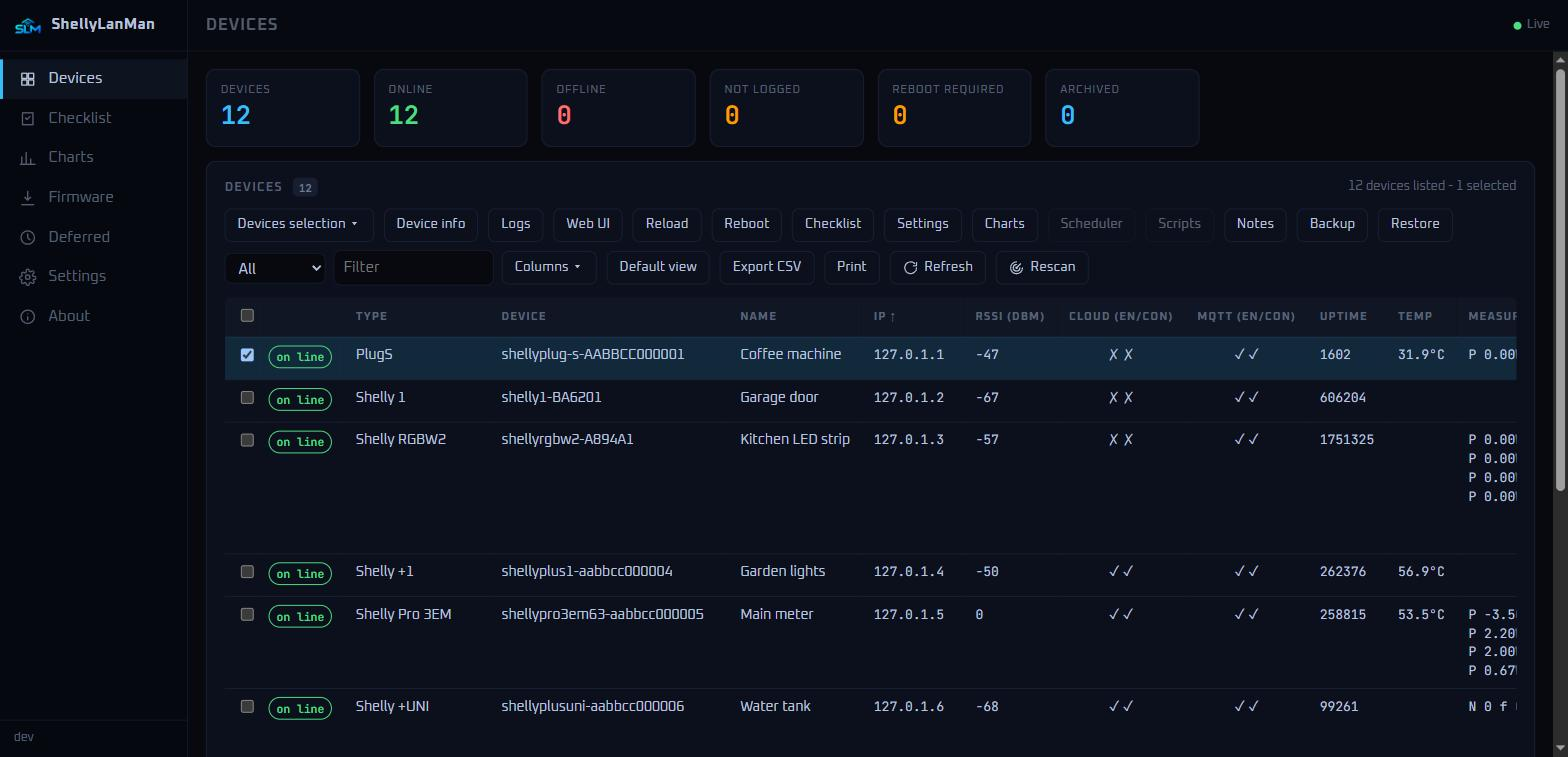
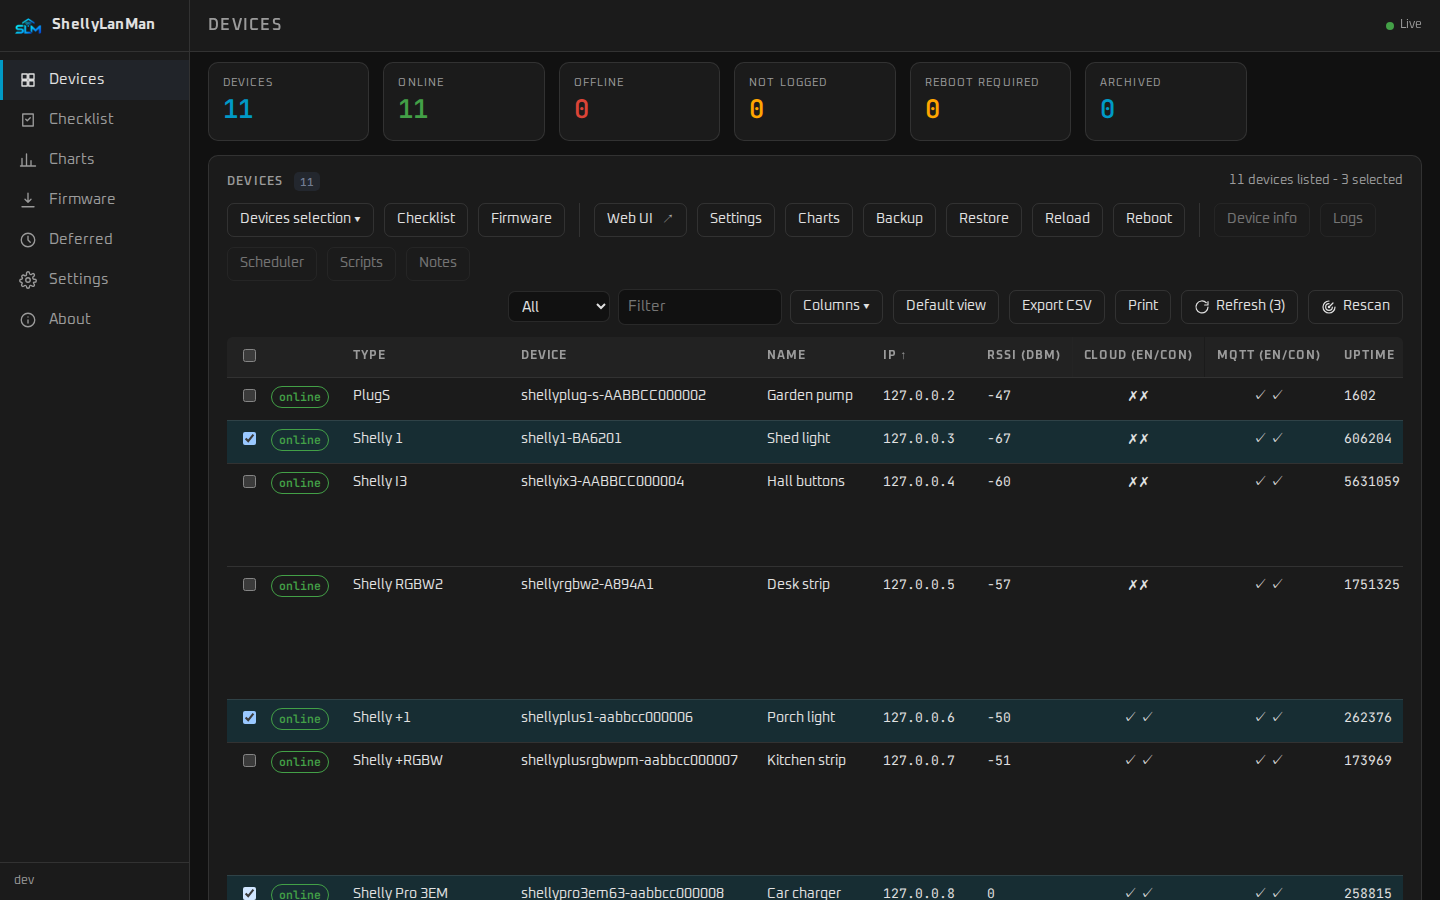
docs: workflow, screenshot tooling, new screenshots and text review after 0.6.0
docs/WORKFLOW.md: checks, remote builds, simulator and screenshots,
translations, releasing both repositories, the Home Assistant test
instance. Host-specific details moved to CLAUDE.local.md (git-ignored).
tools/screenshots: named simulated devices and Playwright screenshots,
dark and light. README: new screenshots, text review after phase 12.

Claude-Session: https://claude.ai/code/session_01GDD3DkdmFUiG3cEB9Y4Umy

diff --git a/tools/screenshots/shoot.py b/tools/screenshots/shoot.py
@@ -1,0 +1,53 @@
+"""README screenshots of a running ShellyLanMan with simulated devices (see run.sh).
+
+Runs in the Playwright Python image; writes PNGs to /shots. The start look is the
+Home Assistant palette, light or dark as the (headless) system prefers, so the
+colour scheme of each context chooses the mode.
+"""
+from playwright.sync_api import sync_playwright
+
+B = "http://127.0.0.1:3082/"
+OUT = "/shots/"
+DESKTOP = {"width": 1440, "height": 900}
+PHONE = {"width": 390, "height": 844}
+# The "no authentication" banner is for real installations, not for pictures.
+QUIET = "try { localStorage.setItem('sl_noauth_dismissed', '1') } catch (e) {}"
+
+
+def context(browser, scheme, viewport, scale=1):
+    ctx = browser.new_context(color_scheme=scheme, viewport=viewport, device_scale_factor=scale)
+    ctx.add_init_script(QUIET)
+    return ctx
+
+
+def tick(page, rows):
+    boxes = page.locator("table.devices tbody td.sel input")
+    for i in rows:
+        boxes.nth(i).check()
+
+
+with sync_playwright() as p:
+    br = p.chromium.launch()
+
+    dark = context(br, "dark", DESKTOP).new_page()
+    dark.goto(B + "#/devices"); dark.wait_for_timeout(3000)
+    tick(dark, (1, 4, 6)); dark.wait_for_timeout(500)
+    dark.screenshot(path=OUT + "screenshot-devices.png")
+    dark.goto(B + "#/about"); dark.wait_for_timeout(2000)
+    dark.screenshot(path=OUT + "screenshot-about.png")
+
+    light = context(br, "light", DESKTOP).new_page()
+    light.goto(B + "#/devices"); light.wait_for_timeout(3000)
+    tick(light, (0, 2, 4, 5, 8)); light.wait_for_timeout(300)
+    light.goto(B + "#/checklist"); light.wait_for_timeout(5000)
+    light.screenshot(path=OUT + "screenshot-checklist.png")
+    light.evaluate("sessionStorage.removeItem('sl_selection')")  # Firmware for all devices
+    light.goto(B + "#/firmware"); light.reload(); light.wait_for_timeout(8000)
+    light.screenshot(path=OUT + "screenshot-firmware.png")
+
+    phone = context(br, "dark", PHONE, 2).new_page()
+    phone.goto(B + "#/checklist"); phone.wait_for_timeout(4000)
+    phone.screenshot(path=OUT + "screenshot-phone.png")
+    phone.click(".menu-btn"); phone.wait_for_timeout(500)
+    phone.screenshot(path=OUT + "screenshot-phone-menu.png")
+    br.close()

diff --git a/docs/WORKFLOW.md b/docs/WORKFLOW.md
@@ -1,0 +1,127 @@
+# Working on ShellyLanMan — standard procedures
+
+How things are done in this project, so they need not be worked out again. The
+machine-specific part (host names, addresses, accounts of the maintainer's own test
+systems) is not in this public repository: Claude Code reads it from
+`CLAUDE.local.md` (git-ignored) in the maintainer's checkout.
+
+## 1. Two repositories
+
+| Repository | Holds | Release |
+|---|---|---|
+| `wimmme/shellylanman` | the application (Go server, TypeScript UI, MCP server) | tag `vX.Y.Z` → image `ghcr.io/wimmme/shellylanman:X.Y.Z`, `X.Y`, `latest` and a GitHub release with the CHANGELOG section |
+| `wimmme/shellylanman-ha` | Home Assistant app (`shellylanman/`) and integration (`custom_components/shellylanman`, HACS) | tag `vX.Y.Z` → image `ghcr.io/wimmme/shellylanman-ha:X.Y.Z`; HACS takes the integration from the repository |
+
+Both carry the same version number. How they depend on each other:
+`shellylanman-ha/COMPATIBILITY.md`.
+
+## 2. Checks
+
+Everything runs in Docker; the development machine needs nothing else.
+
+```sh
+sh tools/verify.sh                  # everything CI runs, plus the production image
+docker build --target test .        # checks only (typecheck, web tests, gofmt, vet, go test -race)
+```
+
+Without Docker on the development machine, run them on a Docker host over SSH:
+
+```sh
+REMOTE=user@dockerhost SSH_OPTS="-i ~/.ssh/key" REMOTE_DIR=build/sll-dev sh tools/remote.sh sh tools/verify.sh
+```
+
+`tools/remote.sh` copies the working tree (without `.git`) to `REMOTE_DIR` on the host
+and runs the command there; nothing comes back by itself (`scp` what you need). Never
+run `docker compose up` in that directory: its compose file uses the production
+container name and would replace a running installation.
+
+Integration tests of `shellylanman-ha` (Home Assistant's test harness, in Docker):
+
+```sh
+sh tools/test.sh               # the oldest supported Home Assistant (pinned)
+sh tools/test.sh 0.13.368      # another pytest-homeassistant-custom-component version
+```
+
+## 3. Simulated devices and screenshots
+
+`cmd/shellysim` plays recorded devices from `testdata/`. For a whole installation with
+named devices and the README screenshots (dark and light):
+
+```sh
+sh tools/screenshots/run.sh    # on a Docker host; PNGs in ./screenshots-out
+```
+
+It builds the tree, starts ShellyLanMan on port 3199 with an IP scan of
+`127.0.0.2–14`, eleven simulators on those loopback addresses (each with its own MAC
+and a name, `tools/screenshots/sims.sh`) and takes the pictures with Playwright
+(`tools/screenshots/shoot.py`). It touches no real device and removes its containers.
+Copy the PNGs to `docs/images/` and check them before committing.
+
+## 4. Translations
+
+Every UI string is in all eight catalogues `web/src/i18n/*.json` (a test checks equal
+keys and placeholders). The files are `json.dumps(…, ensure_ascii=False, indent=2)`
+with a final newline, so a small script that loads, changes and dumps them keeps the
+format; insert new keys next to related ones.
+
+## 5. Releasing
+
+Only on the maintainer's explicit go. Order: ShellyLanMan first (its image is the
+base of the app), then `shellylanman-ha`.
+
+**ShellyLanMan**
+
+1. `CHANGELOG.md`: turn `[Unreleased]` into `## [X.Y.Z] - YYYY-MM-DD` with a short
+   summary paragraph above the sections; leave an empty `[Unreleased]` above it.
+2. `README.md`: the release-line example `ghcr.io/wimmme/shellylanman:X.Y`.
+3. `sh tools/verify.sh` (also checks that the release notes can be extracted).
+4. Commit `release: vX.Y.Z`, tag `vX.Y.Z`, push `main`, then the tag.
+5. Wait for the *Publish image* and *Test* workflows (`gh run watch`); the publish
+   workflow creates the GitHub release from the CHANGELOG section.
+
+**shellylanman-ha**
+
+1. `shellylanman/config.yaml` `version`, `shellylanman/Dockerfile`
+   `SHELLYLANMAN_VERSION`, `custom_components/shellylanman/manifest.json` `version`.
+2. `shellylanman/CHANGELOG.md` (app) and `CHANGELOG.md` (integration): new section.
+3. `sh tools/test.sh` on both Home Assistant versions.
+4. Commit `release: vX.Y.Z …`, tag, push `main` and the tag; wait for the *App* and
+   *Integration* workflows (on `main` and on the tag).
+
+**Afterwards:** install it on the Home Assistant test instance (§6) and record what
+was checked in `docs/hardware-tests.md` (append, never rewrite).
+
+## 6. Home Assistant test instance
+
+A Home Assistant OS VM with the app and the integration; reached over SSH (an
+*Advanced SSH & Web Terminal* app, protection mode on, so no `docker` there) and
+through Home Assistant's WebSocket API with a long-lived token.
+
+- **App update:** Supervisor API through the WebSocket command `supervisor/api`
+  (the REST `/api/hassio` is closed to tokens): `POST /store/reload`, then
+  `POST /store/addons/<slug>/update` with `{"backup": false}`; check
+  `GET /addons/<slug>/info` (`version`, `state`). The app's log:
+  `ha apps logs <slug>` over SSH (with `sudo -n -i`).
+- **Integration update** (when it is not installed through HACS): copy
+  `custom_components/shellylanman` to `/homeassistant/custom_components/` over SSH,
+  then `ha core restart`.
+- **Read-only checks:** WebSocket `config/device_registry/list`,
+  `config_entries/get`, `system_log/list`.
+- Since Home Assistant 2026.8 a device belongs to one config entry: ShellyLanMan's
+  device for a Shelly and the Shelly integration's are two linked devices.
+
+## 7. Real devices
+
+Nothing writes to a real device without asking, except the agreed test devices in
+phases that need writes — and even then say what will be done first (`CLAUDE.md`).
+Fixtures are recorded read-only with `cmd/record` and reviewed (scrubbed) before they
+are committed: this repository is public.
+
+## 8. Documentation habits
+
+- Decisions go to `DECISIONS.md` as a new numbered section; phase analyses to
+  `docs/phase-NN-*.md`; hardware results to `docs/hardware-tests.md`. Append to these;
+  never rewrite earlier sections.
+- Every user-visible change has a `CHANGELOG.md` line in the same commit.
+- Ported code: "Portions derived from ShellyScanner" header and a `docs/PROVENANCE.md`
+  row in the same commit.

diff --git a/README.md b/README.md
@@ -55,12 +55,14 @@ eight languages. No desktop, no VNC, no Java, no cloud.
   Claude Desktop or a local model can read your devices and, if you allow it, switch,
   configure and script them. Locally, with confirmation for anything destructive.
 - **At home in Home Assistant** — [an app](#-home-assistant) in the sidebar behind Home
-  Assistant's login, in Home Assistant's own colours, and an integration that adds
-  ShellyLanMan's status, configuration backups and settings checklist to the Shelly
-  devices Home Assistant already has, plus its tools for Assist.
-- **More than ShellyScanner** — on top of all of ShellyScanner's functions: the MCP
-  server and Home Assistant support above, scenes, eight languages, a choice of colour
-  palettes (including a Home Assistant look), release notes in the app.
+  Assistant's login, in Home Assistant's own colours, and an integration that puts
+  ShellyLanMan's status, configuration backups and settings checklist next to your
+  Shelly devices in Home Assistant, plus its tools for Assist.
+- **More than ShellyScanner** — on top of all of ShellyScanner's functions: pages that
+  work together (one selection for Devices, Checklist and Firmware, buttons that say
+  why they are not available), the MCP server and Home Assistant support above, scenes,
+  eight languages, colour palettes (the Home Assistant look by default), installable as
+  an app, release notes in the app.
 
 ## 🚀 Quick start
 
@@ -119,7 +121,7 @@ volume content.
 
 ### Why host networking
 
-ShellyScanner finds devices with mDNS, which uses multicast on your LAN.
+ShellyLanMan finds devices with mDNS, which uses multicast on your LAN.
 Docker's default bridge network does not pass that multicast into the
 container, so discovery by mDNS only works with `network_mode: host` (Linux).
 In bridge mode (`-p 3082:3082`) everything else works and devices can be found
@@ -160,7 +162,11 @@ own LAN. See [`SECURITY.md`](SECURITY.md).
 
 ## 🧭 Features
 
-Everything ShellyScanner does, in the browser:
+Everything ShellyScanner does, in the browser, and pages that work together:
+
+- **One selection** for Devices, Checklist and Firmware: tick devices on one page and
+  the others show those devices (or all, with one click). Every button says what it
+  does and, when it is grey, why.
 
 - **Discovery** by mDNS (all interfaces or one), IP-range scan or offline, Gen1 to
   Gen4, Pro, BLU devices through their gateways, range-extender clients, protected
@@ -187,12 +193,12 @@ if you switch it on (off by default). No telemetry.
 
 | Page | What it is for |
 |---|---|
-| **Devices** | The live table of every device: status, type, name, IP, RSSI, cloud, MQTT, uptime, temperature, measurements and controls. The toolbar works on the selected devices: info, logs, web UI, reload, reboot, checklist, settings, charts, scheduler, scripts, notes, backup, restore. |
-| **Checklist** | One row per device with the settings worth checking — eco mode, LED, logs, Bluetooth, access point, roaming, Wi-Fi, range extender, scripts, automatic firmware update — and right-click actions to fix them. |
+| **Devices** | The live table of every device: status, type, name, IP, RSSI, cloud, MQTT, uptime, temperature, measurements and controls. Tick devices, then use the toolbar: Checklist and Firmware for the selection; web UI, settings, charts, backup, restore, reload and reboot for one or more devices; info, logs, scheduler, scripts and notes for one device. Refresh reads the devices' status, Rescan searches the network again. |
+| **Checklist** | One row per device with the settings worth checking — eco mode, LED, logs, Bluetooth, access point, roaming, Wi-Fi, range extender, scripts, automatic firmware update. Tick devices and switch a setting with the buttons (or right-click a cell). |
 | **Charts** | Power, energy, voltage, temperature, RSSI and more for the selected devices, with 24 hours of history, zoom, pause and CSV export. |
-| **Firmware** | Current, stable and beta firmware per device, update with live progress, and the QR code for the local download. |
+| **Firmware** | Current, stable and beta firmware of the selected devices (or all), update with live progress, and the QR code for the local download. |
 | **Deferred** | Actions for offline devices, run when the device comes back. |
-| **Settings** | Scan mode and IP ranges, archive, device credentials, backups, web server port, script editor, appearance and language. |
+| **Settings** | Scan mode and IP ranges, archive, device credentials, backups, web server port, script editor, appearance (palette, font, how device pages open) and language. |
 | **About** | What is running (version, runtime, uptime), release notes, dependencies with their licences, credits and help. |
 
 ## 📸 Screenshots
@@ -200,11 +206,19 @@ if you switch it on (off by default). No telemetry.
 | | |
 |---|---|
 | ![Devices](docs/images/screenshot-devices.png) | ![Checklist](docs/images/screenshot-checklist.png) |
-| **Devices** — the live table with controls | **Checklist** — settings worth checking |
+| **Devices** (dark) — the live table; three devices ticked | **Checklist** (light) — the same selection, with *Show all devices* |
 | ![Firmware](docs/images/screenshot-firmware.png) | ![About](docs/images/screenshot-about.png) |
-| **Firmware** — check, update and the Shelly index | **About** — version, system information and support |
+| **Firmware** (light) — check, update and the Shelly index | **About** (dark) — version, system information and support |
 
-The screenshots show simulated devices (`cmd/shellysim`).
+On a phone the pages get the full width; the navigation is behind ☰:
+
+<p>
+  <img src="docs/images/screenshot-phone.png" alt="Checklist on a phone" width="240">
+  <img src="docs/images/screenshot-phone-menu.png" alt="The menu on a phone" width="240">
+</p>
+
+The screenshots show simulated devices in the Home Assistant palette, which is the
+start look; `sh tools/screenshots/run.sh` makes them again.
 
 ## 🤖 AI assistants (MCP)
 

diff --git a/docs/hardware-tests.md b/docs/hardware-tests.md
@@ -244,3 +244,12 @@ fresh instance returns the new token in the API answer; on the test instance it 
 rotated afterwards.
 | Release 0.5.0 on `ha-test` | the store offered the app update 0.4.0 → 0.5.0; after it ShellyLanMan v0.5.0 with the local MCP listener; integration (released code) installed; after a Core restart `shellylanman` (one click) and `mcp` (URL, HA 2026.9) are offered as discovered |
 | `shellylanman-ha` CI | tests on HA 2026.9.4 and the newest release, `hassfest` (after sorting the manifest keys) and HACS validation (after adding repository topics) green |
+
+## Phase 12 and release 0.6.0 (2026-10-03)
+
+| Check | Result |
+|---|---|
+| Pages with 11 simulated devices (`tools/screenshots/run.sh`, headless Chromium) | shared selection Devices → Checklist → Firmware with *Show all devices*; tooltips of grey buttons give the reason (read from the page); Firmware rows filled per device; ☰ menu on a 390 px phone (made opaque after the first look) |
+| `ha-test` device registry (read only, before the release) | ShellyTestPlug also listed as `addr:192.168.0.150:80` (unidentified, error) → fixed in `acd978a`; BrandstofcelSwitch twice (ShellyLanMan and Shelly integration, same MAC, not merged): Home Assistant 2026.8+ keeps one config entry per device |
+| Release 0.6.0 on `ha-test` | app 0.5.0 → 0.6.0 through the Supervisor (store reload, update); log shows `announced to Home Assistant` for `shellylanman` and `mcp`; integration 0.6.0 copied, Core restarted: 27 ShellyLanMan devices, the `addr:` device removed, no `shellylanman` entries in the system log |
+| CI | `shellylanman` Test and Publish image green; `shellylanman-ha` App and Integration green on `main` and `v0.6.0` |

diff --git a/CLAUDE.md b/CLAUDE.md
@@ -15,6 +15,8 @@ server + plain TypeScript frontend, one Docker image, one `/data` volume.
 | Every feature, where it is in the Java code, the Shelly API it uses, status | `FEATURE_PARITY.md` |
 | Decisions already taken (technology, networking, QR scope, …) | `DECISIONS.md` §8 — it overrides earlier proposals |
 | Where code came from | `docs/PROVENANCE.md` |
+| How we work: checks, simulator and screenshots, releases, the HA test instance | `docs/WORKFLOW.md` |
+| Wim's own hosts, accounts and test systems (git-ignored, local only) | `CLAUDE.local.md` |
 | ShellyScanner source | https://github.com/usnasoft/shellyscanner (clone it; the code is the truth) |
 | Shelly API | the `shelly-api-docs` MCP server, or https://shelly-api-docs.shelly.cloud |
 
@@ -30,9 +32,10 @@ go run ./cmd/shellysim testdata/gen1/SHPLG-S testdata/gen2/Plus1   # simulated d
 go run ./cmd/record -host <ip> -out testdata/<gen>/<model>        # record a fixture (GET only)
 ```
 
-No Docker on the dev machine: `REMOTE=wim@192.168.0.12 SSH_OPTS="-i ~/.ssh/id_ed25519_dockerhostvm" sh tools/remote.sh sh tools/verify.sh`
-(copies the tree to `~/build/shellylanman` on dockerhostvm and runs there;
-generated files must be fetched back explicitly).
+No Docker on the dev machine: run the same commands on a Docker host with
+`tools/remote.sh` (`REMOTE_DIR=build/sll-dev`; hosts and keys in `CLAUDE.local.md`).
+It copies the tree and runs there; generated files must be fetched back explicitly.
+Screenshots with simulated devices: `sh tools/screenshots/run.sh`.
 
 ## Architecture in one screen
 
